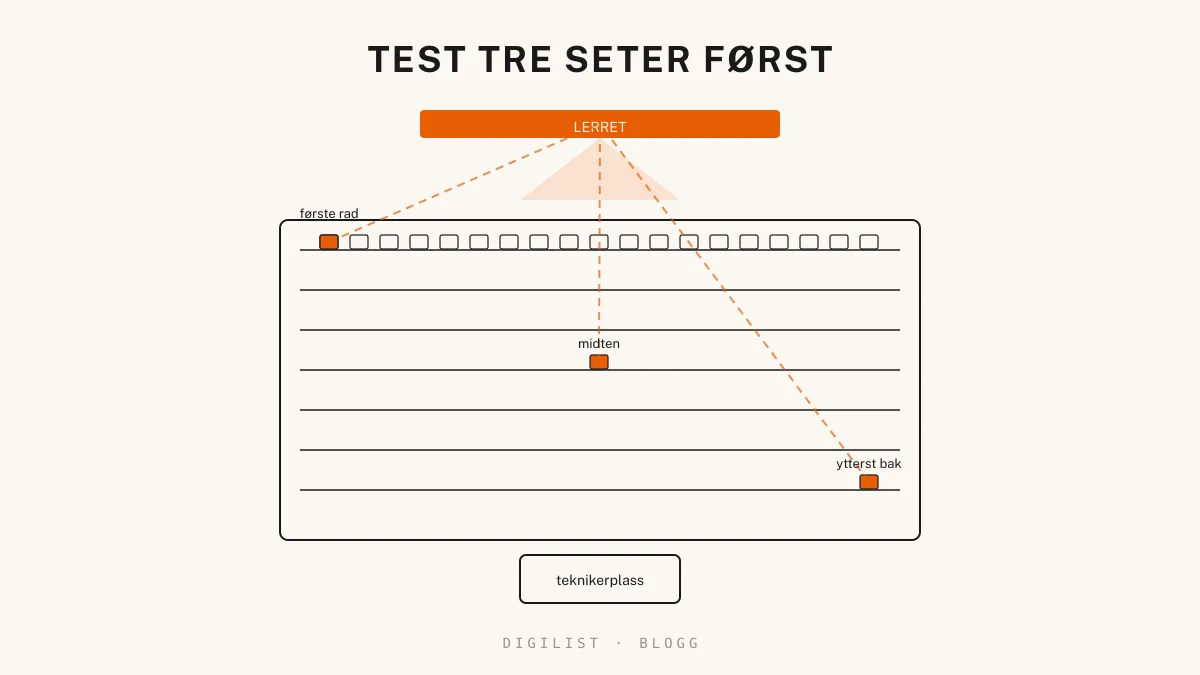
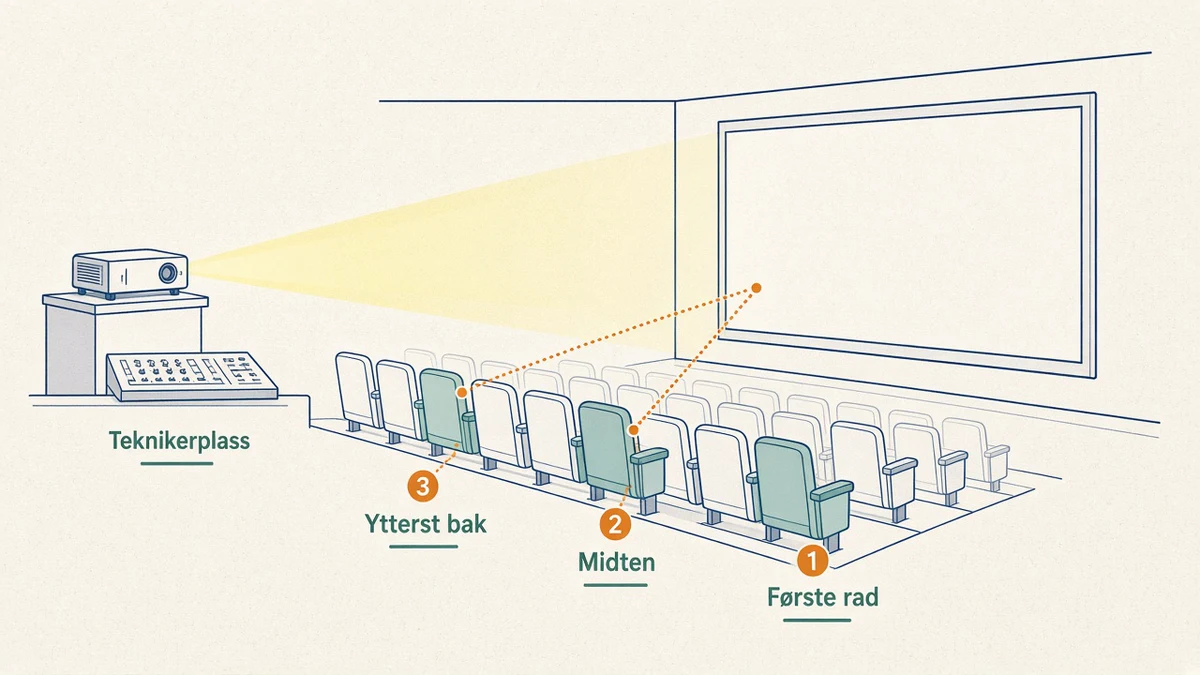
R1: Gemini cover, copy and link fixes for kinostoler post
Replace drawn cover with attached infographic, update coverAlt, tighten
body copy and headings, and use root-relative internal links.

diff --git a/src/content/blog/lokale-med-kinostoler-test-tre-seter.md b/src/content/blog/lokale-med-kinostoler-test-tre-seter.md
@@ -8,7 +8,7 @@ author: "Ibrahim Rahmani"
 role: "Grunnlegger, Digilist"
 tag: "Arrangement"
 cover: "/images/blog/lokale-med-kinostoler-test-tre-seter.webp"
-coverAlt: "Infografikk på kremfarget bakgrunn: kinosal med projektorstråle mot lerretet, tre markerte seter på første rad, i midten og ytterst bakerst med siktlinjer, og teknikerplass bakerst. Overskrift «TEST TRE SETER FØRST»."
+coverAlt: "Infografikk på kremfarget bakgrunn i perspektiv: projektor på sokkel til venstre med gul stråle mot lerretet, teknikerbord under merket «Teknikerplass», tre kinorader med seter 1, 2 og 3 markert i turkis med oransje tall, og tekstene «Første rad», «Midten» og «Ytterst bak»; oransje stiplet siktlinje fra setene 2 og 3 mot lerretet."
 priceBlock: shared
 keywords:
   - leie lokale med kinostoler
@@ -28,11 +28,11 @@ Et lokale med kinostoler avgjøres fra setene, ikke fra døra. Visningen bør om
 
 På første rad sees opp mot lerretet. Nakkebelastning etter kort tid indikerer at gjestene vil få samme opplevelse gjennom en hel film eller et langt foredrag. Skal noen stå ved talerstol eller på scenen, bør det sjekkes om de dekker nederste del av bildet.
 
-Første rad er der gjestene ofte kommer sist og sitter lengst. Det som er ubehagelig der i noen minutter, blir verre over tid.
+Første rad fylles gjerne sist, av dem som kommer sent. Det som er ubehagelig der i noen minutter, blir verre over tid.
 
-God komfort på første rad tyder på at de fleste plassene vil fungere.
+Fungerer første rad, er det ene ytterpunktet sjekket.
 
-## Midt i salen hører man om lyden faktisk når frem
+## Midt i salen avsløres om lyden når frem
 
 Midt i salen er der de fleste sitter, og der lyden skal være best. Utleieren bør slå på eget lydanlegg og snakke i mikrofon mens prøvesittingen skjer der. Ordene bør være klare, ikke flyte sammen.
 
@@ -44,27 +44,25 @@ Lyden bør testes med tale, ikke bare med musikk.
 
 Bakerste rad, helt ytterst, er setet utleieren sjelden viser først. Der avdekkes om en søyle eller et rekkverk står i veien, om lys fra vinduer eller dører slipper inn, og om et lysende skilt over nødutgangen speiler seg i lerretet.
 
-Trappen ned bør gås med dempet lys. Vanskelige trinn tyder på behov for ledelys eller en plan for pausen. Salen bør også ha avklarte rullestolplasser og hvor de står, slik at alle får god sikt.
+Trappen ned bør gås med dempet lys. Vanskelige trinn tyder på behov for ledelys eller en plan for pausen. Spør også hvor rullestolplassene står, slik at alle får god sikt.
 
 Det dårligste setet forteller mest om salen.
 
-For den som leier ut et lokale, er Digilist et abonnement, ikke en provisjon.
-
 <!-- price-block: shared -->
 
-[Veiledende prisintervall for kinosal og kultursal](https://digilist.no/verktoy/leiepriskalkulator)
+[Regn ut hva kinosalen bør koste før visningen.](/verktoy/leiepriskalkulator)
 
-## Fra teknikerplassen ser man hva som må tas med selv
+## Teknikerplassen viser hva som må tas med selv
 
-Til slutt bør teknikerplassen inspiseres. Utleieren bør opplyse om projektorinnganger, om trådløs mikrofon finnes, og hvem som kjører lyset under arrangementet. Mangler noe, kan det være lurt å vurdere å [leie lyd og lys](https://digilist.no/utstyr/lyd-og-lys) i stedet for å improvisere på kvelden.
+Til slutt bør teknikerplassen inspiseres. Utleieren bør opplyse om projektorinnganger, om trådløs mikrofon finnes, og hvem som kjører lyset under arrangementet. Mangler noe, kan det lønne seg å [leie lyd og lys](/utstyr/lyd-og-lys) i stedet for å improvisere på kvelden.
 
-Faste kinostoler er ikke det samme som stoler satt på rekker i et flatt rom. Forskjellen forklares i [Kinooppsett, dekket og stående: ordliste](https://digilist.no/blogg/kinooppsett-dekket-staende-ordliste), og flere typer saler finnes i [Spesialiserte lokaler for kultur og underholdning](https://digilist.no/blogg/spesialiserte-lokaler-kultur-underholdning).
+Faste kinostoler er ikke det samme som stoler satt på rekker i et flatt rom. Forskjellen forklares i [Kinooppsett, dekket og stående: ordliste](/blogg/kinooppsett-dekket-staende-ordliste), og flere typer saler finnes i [Spesialiserte lokaler for kultur og underholdning](/blogg/spesialiserte-lokaler-kultur-underholdning).
 
 Faste seter gir også et fast antall plasser. Utleieren bør opplyse om tallet, og om noen plasser er sperret.
 
 Det som avklares ved teknikerbordet, slipper å løses når salen er full.
 
-[Kapasitetskalkulator for å sjekke om salen passer gjestelisten](https://digilist.no/verktoy/kapasitetskalkulator)
+[Kapasitetskalkulator for å sjekke om salen passer gjestelisten](/verktoy/kapasitetskalkulator)
 
 ## Ofte stilte spørsmål
 
